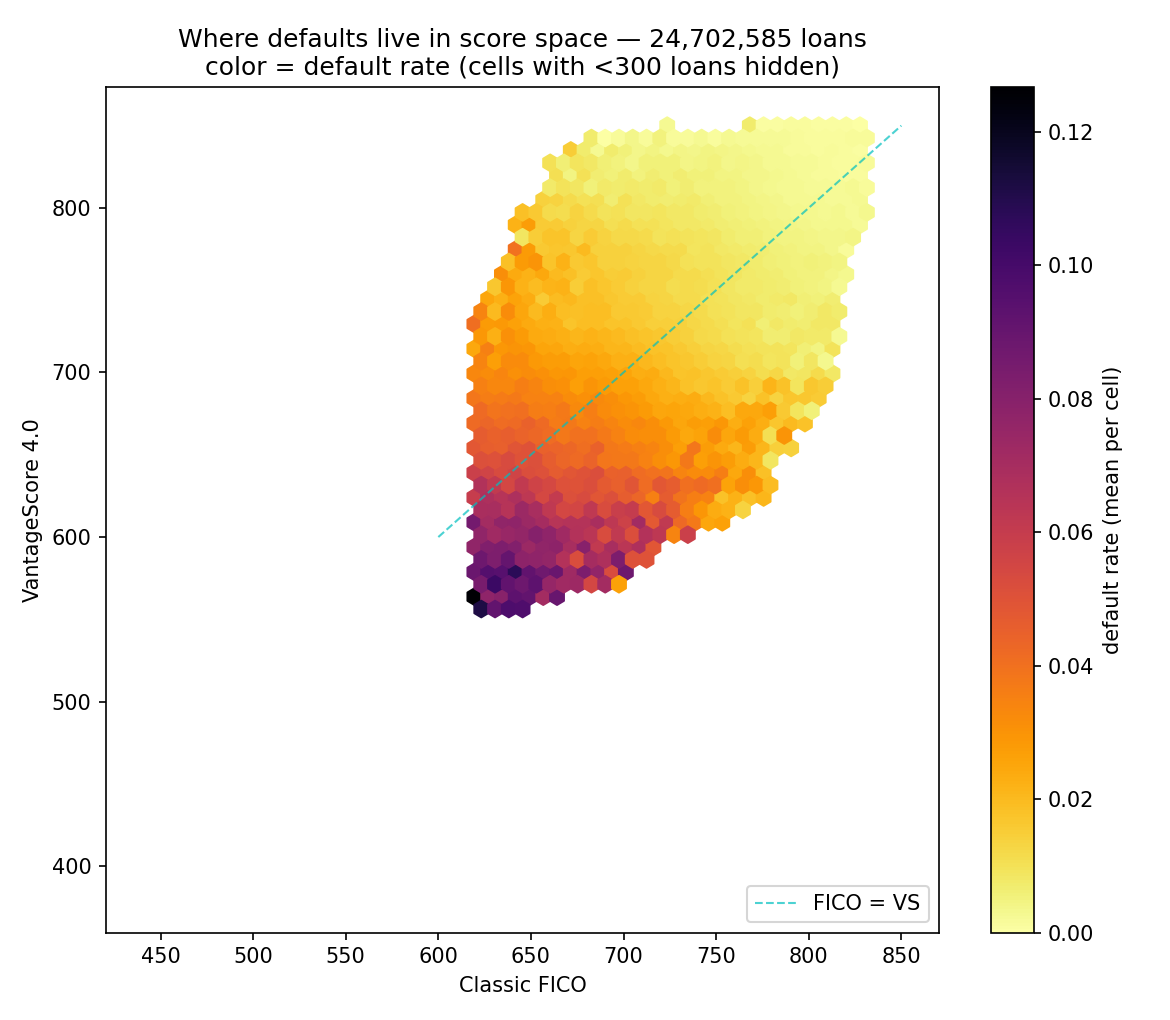
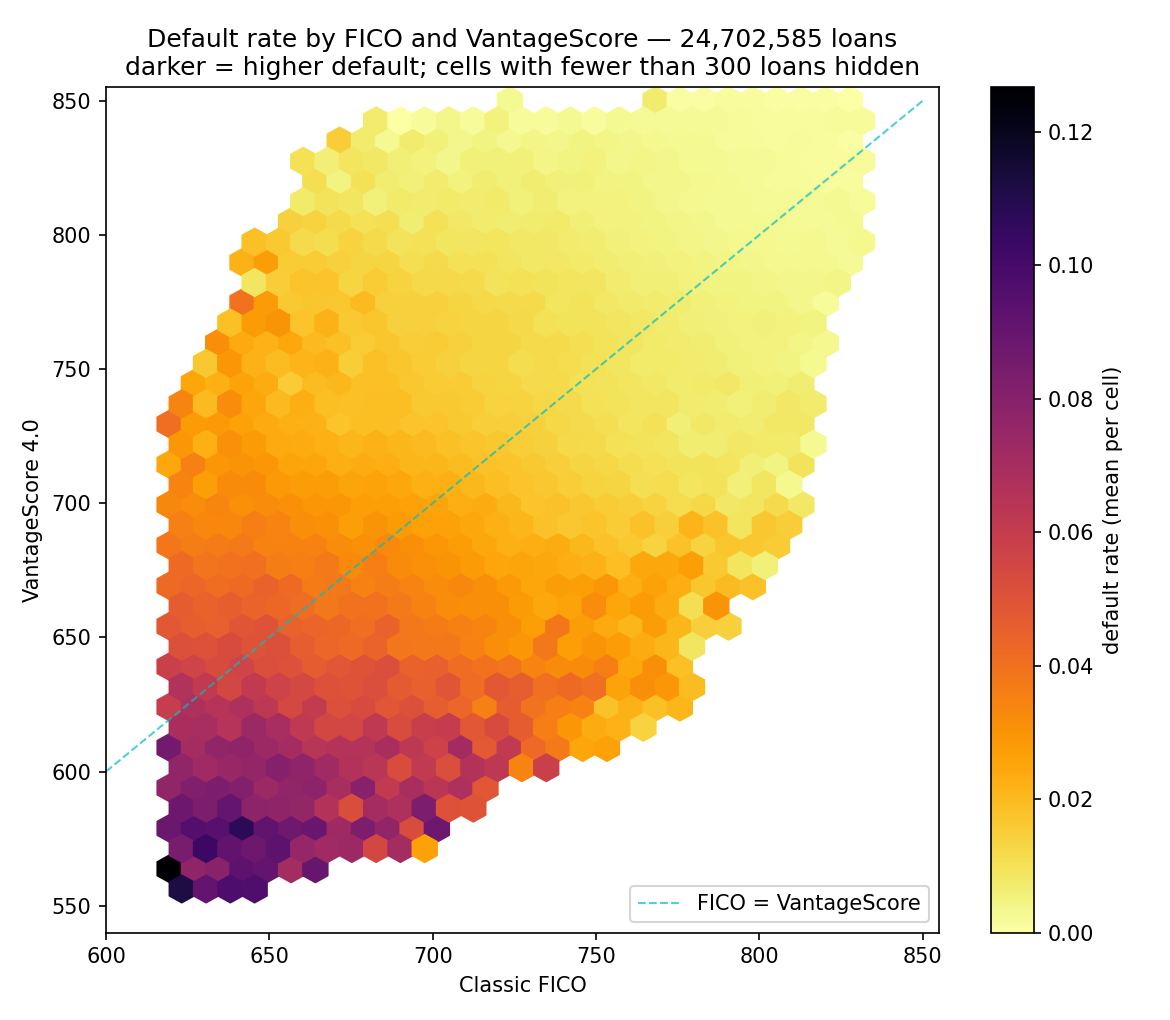
Tidy loan-level heatmaps (zoom to data, plain labels) and add the regime heatmap to REPORT §4.5

diff --git a/08_loanlevel_heatmap.py b/08_loanlevel_heatmap.py
@@ -21,9 +21,10 @@ y = df["defaulted"].to_numpy().astype(float); vdr = df["vdr"].to_numpy()
 plt.figure(figsize=(7.8, 6.8))
 hb = plt.hexbin(fico, vs, C=y, reduce_C_function=np.mean, gridsize=55, mincnt=300, cmap="inferno_r")
 plt.colorbar(hb, label="default rate (mean per cell)")
-plt.plot([600, 850], [600, 850], "c--", lw=1, alpha=0.7, label="FICO = VS")
+plt.plot([600, 850], [600, 850], "c--", lw=1, alpha=0.7, label="FICO = VantageScore")
 plt.xlabel("Classic FICO"); plt.ylabel("VantageScore 4.0")
-plt.title(f"Where defaults live in score space — {len(fico):,} loans\ncolor = default rate (cells with <300 loans hidden)")
+plt.xlim(600, 855); plt.ylim(540, 855)
+plt.title(f"Default rate by FICO and VantageScore — {len(fico):,} loans\ndarker = higher default; cells with fewer than 300 loans hidden")
 plt.legend(loc="lower right"); plt.tight_layout()
 plt.savefig(C.OUTPUTS / "loanlevel_default_heatmap.png", dpi=150); plt.close()
 
@@ -31,14 +32,15 @@ plt.savefig(C.OUTPUTS / "loanlevel_default_heatmap.png", dpi=150); plt.close()
 benign = vdr < 0.01; stress = vdr > 0.025
 fig, axes = plt.subplots(1, 2, figsize=(13, 6), sharex=True, sharey=True)
 hb = None
-for ax, mask, name in [(axes[0], benign, "Benign vintages (vintage default <1%)"),
-                       (axes[1], stress, "Stress vintages (vintage default >2.5%)")]:
+for ax, mask, name in [(axes[0], benign, "Calm years (under 1% default)"),
+                       (axes[1], stress, "COVID-hit years (over 2.5% default)")]:
     hb = ax.hexbin(fico[mask], vs[mask], C=y[mask], reduce_C_function=np.mean,
                    gridsize=50, mincnt=200, cmap="inferno_r", vmin=0, vmax=0.12)
     ax.plot([600, 850], [600, 850], "c--", lw=1, alpha=0.6)
-    ax.set_title(f"{name}\nn={int(mask.sum()):,}"); ax.set_xlabel("Classic FICO")
+    ax.set_title(f"{name}\n{mask.sum()/1e6:.1f}M loans"); ax.set_xlabel("Classic FICO")
+    ax.set_xlim(600, 855); ax.set_ylim(540, 855)
 axes[0].set_ylabel("VantageScore 4.0")
 fig.colorbar(hb, ax=axes, label="default rate", shrink=0.85)
-fig.suptitle("Does the default cluster move under stress? (loan-level, score space)")
+fig.suptitle("Where defaults concentrate: calm years vs the COVID-hit years")
 fig.savefig(C.OUTPUTS / "loanlevel_heatmap_regime.png", dpi=150, bbox_inches="tight"); plt.close()
 print(f"wrote loanlevel heatmaps; benign n={int(benign.sum()):,}  stress n={int(stress.sum()):,}")
